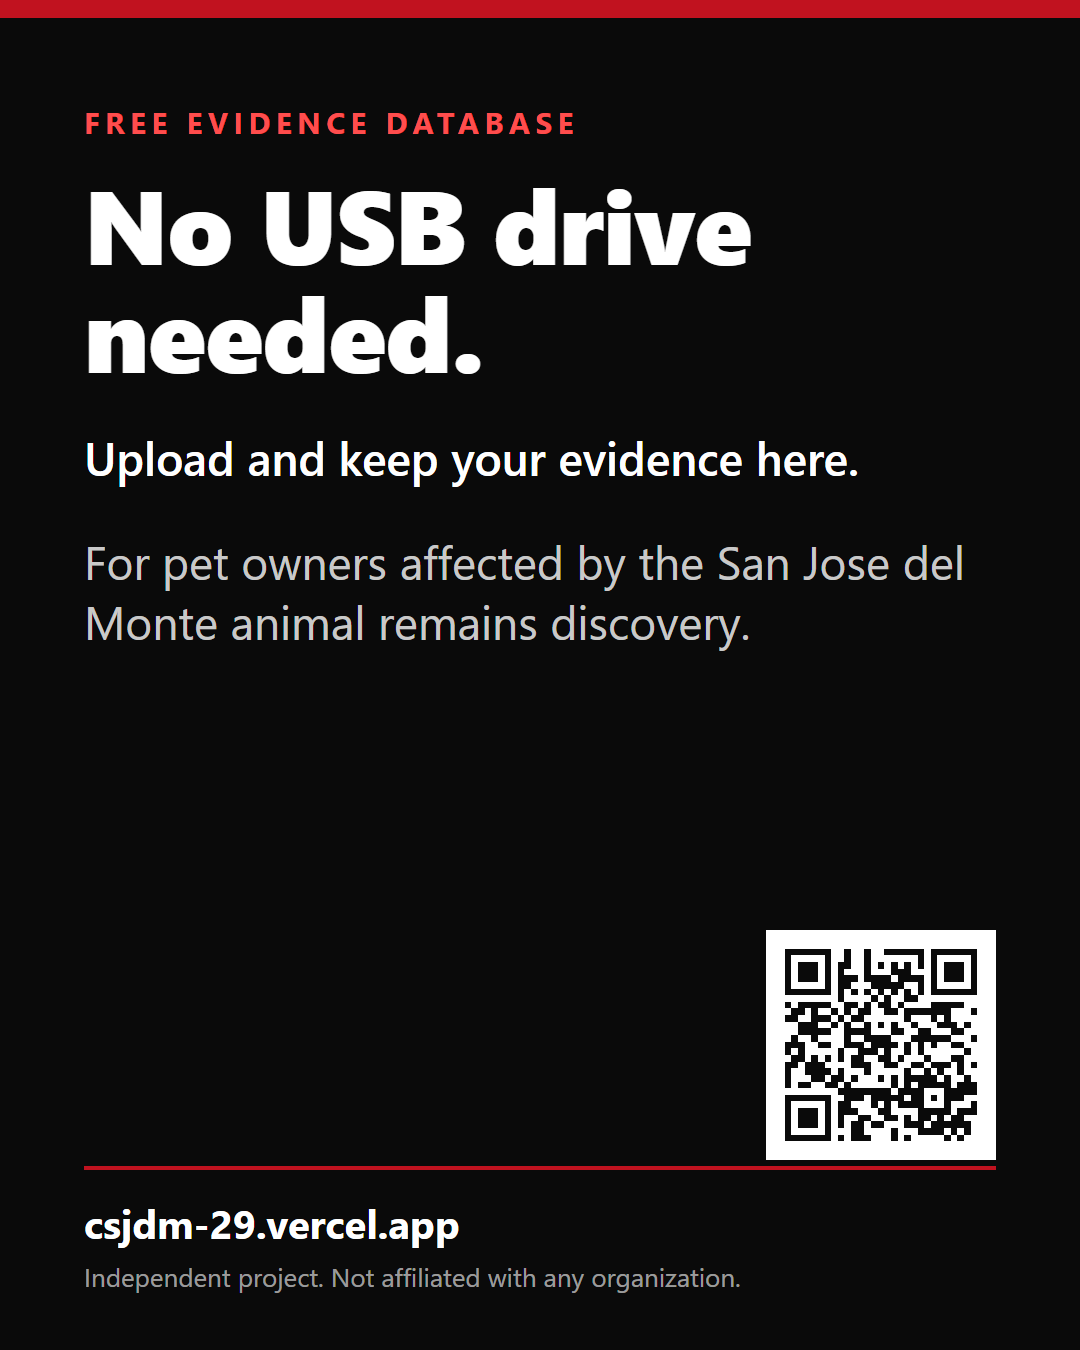
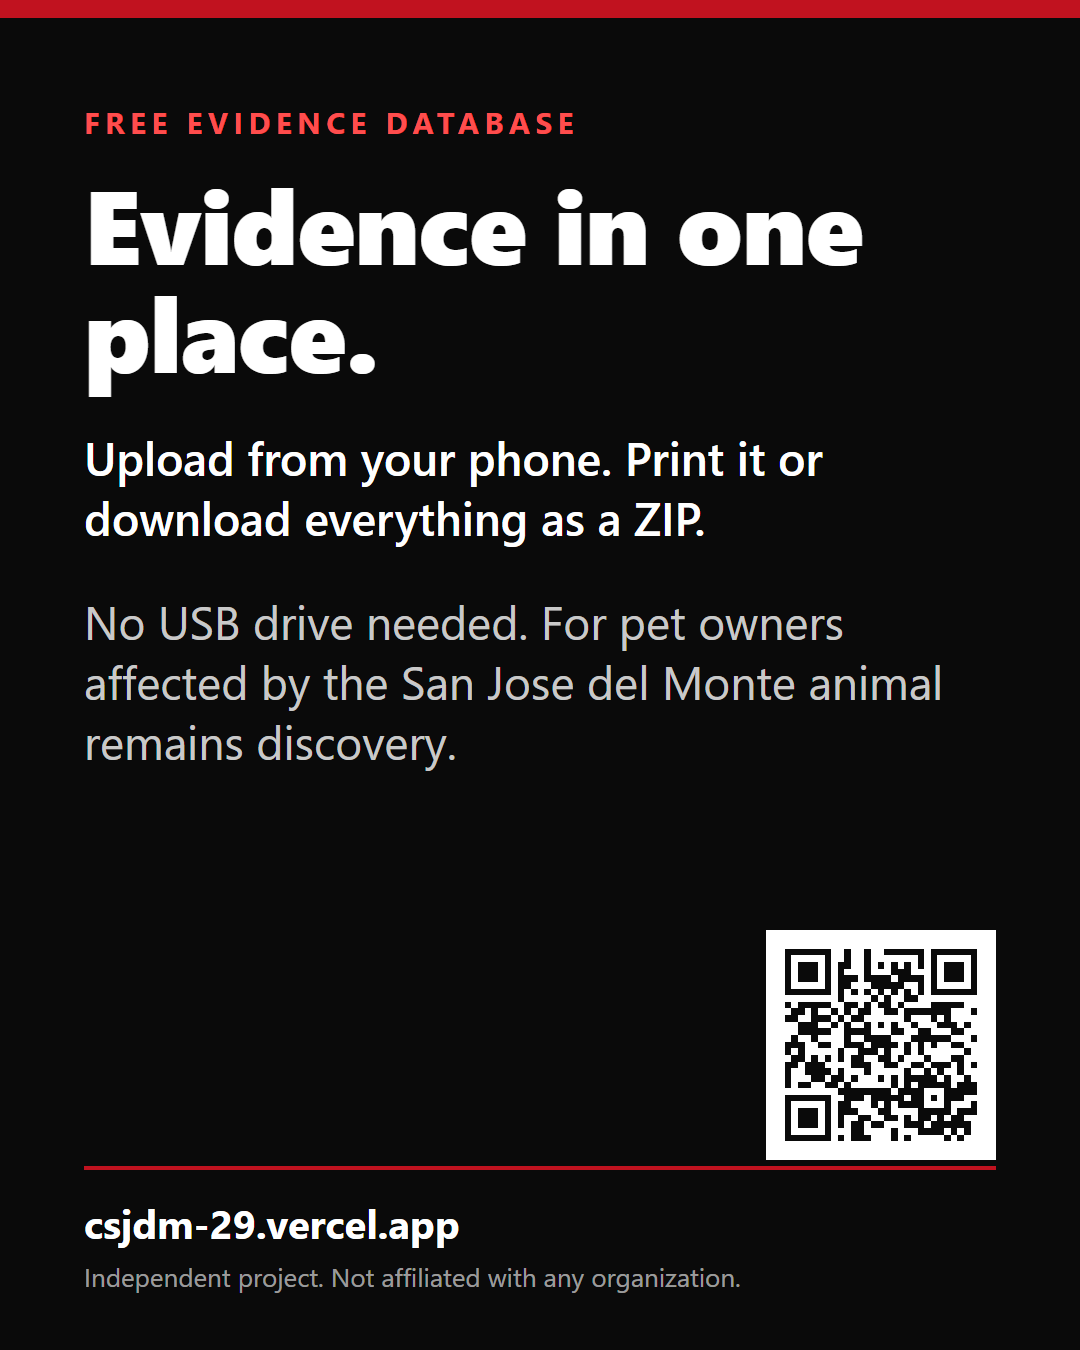
Lead with evidence database, state that the registry is empty, add registry-help slide and captions

Changed region(s): [[0.0611, 0.3111, 0.9167, 0.56], [0.0611, 0.1244, 0.7944, 0.3111]]

diff --git a/src/app/page.tsx b/src/app/page.tsx
@@ -13,15 +13,15 @@ export default async function Home() {
     <main>
       <section className="bg-ink-900 text-white">
         <div className="mx-auto max-w-3xl px-4 pb-12 pt-12 sm:pt-16">
-          <h1 className="text-4xl font-bold leading-tight sm:text-5xl">Evidence preservation and pet identification registry</h1>
+          <h1 className="text-4xl font-bold leading-tight sm:text-5xl">Evidence in one place. Print it or download it as a ZIP.</h1>
           <p className="mt-5 max-w-xl text-lg text-white/80">
-            For pet owners affected by the San Jose del Monte animal remains discovery. Upload evidence, search documented recovered animals, and review potential matches.
+            Online evidence database for pet owners affected by the San Jose del Monte animal remains discovery. Upload files from your phone instead of collecting them on a USB drive.
           </p>
 
           <div className="mt-8 flex max-w-md flex-col gap-3">
             <Link href="/report" className="btn-primary text-lg">Report or register a pet</Link>
-            <Link href="/registry" className="btn btn-secondary text-lg">Search recovered pets</Link>
-            <Link href="/information" className="btn border-2 border-white/40 text-white hover:bg-white/10">Submit information</Link>
+            <Link href="/information" className="btn btn-secondary text-lg">Submit information</Link>
+            <Link href="/registry" className="btn border-2 border-white/40 text-white hover:bg-white/10">Search recovered pets</Link>
           </div>
 
           <DisclaimerBox className="mt-8 max-w-xl" />
@@ -37,6 +37,11 @@ export default async function Home() {
           <Stat label="Evidence files preserved" value={n(stats?.evidence_files)} />
         </dl>
         <p className="mt-3 text-xs text-ink-500">Counts reflect records on this platform only. They are not findings about any person or business.</p>
+        {stats?.recovered_documented === 0 && (
+          <p className="mt-4 border-l-4 border-brand-600 bg-sand-100 p-3 text-sm text-ink-900">
+            The recovered-animals registry has no records yet. Records are added by authorized reviewers from documented sources. Searching and potential matches work only after records are added.
+          </p>
+        )}
       </section>
 
       <section className="mx-auto max-w-5xl px-4 pb-10">
@@ -64,7 +69,7 @@ export default async function Home() {
           {[
             ["Preserve", "Receipts, messages and photos are stored unmodified with a SHA-256 hash."],
             ["Organize", "Case details form a timeline and an evidence index."],
-            ["Correlate", "Documented recovered animals are compared with owner-submitted details."],
+            ["Correlate", "Once the registry has records, documented recovered animals are compared with owner-submitted details."],
             ["Verify", "A human reviewer checks every record and every potential match."],
             ["Export", "Print case packages or download original files as a ZIP."],
           ].map(([t, d], i) => (

diff --git a/social/07-registry-help.html b/social/07-registry-help.html
@@ -1,0 +1,32 @@
+<!doctype html><html><head><meta charset="utf-8"><style>
+*{box-sizing:border-box;margin:0;padding:0}
+body{width:1080px;height:1350px;background:#0a0a0a;color:#fff;font-family:"Segoe UI",Roboto,Arial,sans-serif;display:flex;flex-direction:column}
+.bar{height:18px;background:#c1121f;flex:none}
+.wrap{flex:1;padding:84px 84px 0;display:flex;flex-direction:column}
+.kicker{color:#ff4d4d;font-weight:700;letter-spacing:.18em;font-size:30px}
+h1{font-size:104px;line-height:1.04;font-weight:800;margin-top:26px;letter-spacing:-.01em}
+.lead{font-size:46px;line-height:1.3;margin-top:44px;font-weight:600}
+.dim{color:rgba(255,255,255,.78);font-weight:400}
+ul{margin-top:48px;list-style:none}
+ul li{font-size:42px;line-height:1.28;padding:22px 0 22px 46px;border-top:2px solid rgba(255,255,255,.16);position:relative}
+ul li:first-child{border-top:0}
+ul li::before{content:"";position:absolute;left:0;top:38px;width:18px;height:18px;background:#c1121f}
+ol{margin-top:48px;list-style:none;counter-reset:s}
+ol li{counter-increment:s;display:flex;flex-direction:column;padding:26px 0 26px 118px;border-top:2px solid rgba(255,255,255,.16);position:relative}
+ol li:first-child{border-top:0}
+ol li::before{content:counter(s);position:absolute;left:0;top:26px;width:76px;height:76px;border-radius:50%;background:#c1121f;font-size:42px;font-weight:800;display:flex;align-items:center;justify-content:center}
+ol b{font-size:46px}
+ol span{font-size:34px;line-height:1.3;color:rgba(255,255,255,.8);margin-top:6px}
+.orgs li{font-size:48px;font-weight:700}
+.small{font-size:32px;line-height:1.35;margin-top:36px;color:rgba(255,255,255,.8)}
+.qr{position:absolute;right:84px;bottom:190px;width:230px;background:#fff;padding:12px}
+.qr svg{display:block;width:100%;height:auto}
+.foot{flex:none;padding:0 84px 56px}
+.url{font-size:40px;font-weight:700;border-top:4px solid #c1121f;padding-top:26px}
+.note{font-size:26px;color:rgba(255,255,255,.6);margin-top:10px}
+</style></head><body>
+<div class="bar"></div>
+<div class="wrap"><div class="kicker">HELP NEEDED</div><h1>Registry records</h1><p class="lead">The recovered-animals registry has no records yet.</p><ul><li>Records are entered by authorized reviewers from documented sources</li><li>Entries can be text only: label name, weight, colors, markings, source</li><li>Photos are optional and stay hidden behind a reveal button</li><li>Organizations or volunteers with authorized access to source documentation: message this page to be set up as reviewers</li></ul></div>
+
+<div class="foot"><div class="url">csjdm-29.vercel.app</div><div class="note">Independent project. Not affiliated with any organization.</div></div>
+</body></html>

diff --git a/social/01-cover.html b/social/01-cover.html
@@ -26,7 +26,7 @@ ol span{font-size:34px;line-height:1.3;color:rgba(255,255,255,.8);margin-top:6px
 .note{font-size:26px;color:rgba(255,255,255,.6);margin-top:10px}
 </style></head><body>
 <div class="bar"></div>
-<div class="wrap"><div class="kicker">FREE EVIDENCE DATABASE</div><h1>No USB drive needed.</h1><p class="lead">Upload and keep your evidence here.</p><p class="lead dim">For pet owners affected by the San Jose del Monte animal remains discovery.</p></div>
+<div class="wrap"><div class="kicker">FREE EVIDENCE DATABASE</div><h1>Evidence in one place.</h1><p class="lead">Upload from your phone. Print it or download everything as a ZIP.</p><p class="lead dim">No USB drive needed. For pet owners affected by the San Jose del Monte animal remains discovery.</p></div>
 <div class="qr"><svg xmlns="http://www.w3.org/2000/svg" viewBox="0 0 31 31" shape-rendering="crispEdges"><path fill="#ffffff" d="M0 0h31v31H0z"/><path stroke="#0a0a0a" d="M1 1.5h7m2 0h1m2 0h1m2 0h6m1 0h7M1 2.5h1m5 0h1m2 0h1m2 0h1m7 0h1m1 0h1m5 0h1M1 3.5h1m1 0h3m1 0h1m1 0h2m2 0h1m1 0h1m1 0h1m1 0h1m1 0h1m1 0h1m1 0h3m1 0h1M1 4.5h1m1 0h3m1 0h1m1 0h1m3 0h1m3 0h3m3 0h1m1 0h3m1 0h1M1 5.5h1m1 0h3m1 0h1m1 0h3m1 0h4m1 0h4m1 0h1m1 0h3m1 0h1M1 6.5h1m5 0h1m1 0h2m3 0h5m2 0h1m1 0h1m5 0h1M1 7.5h7m1 0h1m1 0h1m1 0h1m1 0h1m1 0h1m1 0h1m1 0h1m1 0h7M9 8.5h1m4 0h1m1 0h1m2 0h2M1 9.5h1m1 0h5m2 0h2m1 0h1m1 0h2m1 0h1m4 0h5M2 10.5h2m1 0h1m2 0h1m1 0h1m1 0h2m2 0h2m1 0h7m3 0h1M1 11.5h2m2 0h3m1 0h1m1 0h2m6 0h1m3 0h1m1 0h1M3 12.5h3m2 0h1m1 0h1m2 0h1m1 0h1m1 0h1m2 0h1m3 0h3m1 0h1M3 13.5h5m2 0h4m3 0h2m2 0h2m3 0h2M2 14.5h1m2 0h1m4 0h1m2 0h4m3 0h6m3 0h1M1 15.5h3m2 0h2m2 0h3m1 0h4m1 0h1m1 0h1m1 0h1m2 0h2M1 16.5h1m1 0h1m5 0h1m2 0h3m1 0h1m2 0h1m1 0h1m6 0h1M2 17.5h2m1 0h1m1 0h1m1 0h1m1 0h2m2 0h2m1 0h1m3 0h1m3 0h2M1 18.5h2m1 0h3m4 0h3m2 0h2m2 0h2m1 0h3m1 0h1m1 0h1M1 19.5h1m2 0h4m1 0h1m3 0h1m5 0h1m2 0h1m1 0h1m2 0h1M1 20.5h1m3 0h2m1 0h2m1 0h1m3 0h1m1 0h1m1 0h5m1 0h1m2 0h1M1 21.5h1m1 0h2m2 0h2m1 0h1m6 0h1m1 0h1m1 0h5m1 0h3M9 22.5h8m1 0h4m3 0h5M1 23.5h7m2 0h3m1 0h5m1 0h2m1 0h1m1 0h3M1 24.5h1m5 0h1m1 0h2m3 0h1m1 0h1m1 0h4m3 0h1m3 0h1M1 25.5h1m1 0h3m1 0h1m1 0h3m3 0h2m4 0h5m1 0h3M1 26.5h1m1 0h3m1 0h1m1 0h1m2 0h2m2 0h2m1 0h1m1 0h2m1 0h1m1 0h2M1 27.5h1m1 0h3m1 0h1m1 0h1m1 0h2m1 0h2m3 0h3m1 0h6M1 28.5h1m5 0h1m3 0h2m4 0h1m3 0h4m1 0h1m1 0h1M1 29.5h7m1 0h1m1 0h3m3 0h1m1 0h1m5 0h1m1 0h1"/></svg>
 </div>
 <div class="foot"><div class="url">csjdm-29.vercel.app</div><div class="note">Independent project. Not affiliated with any organization.</div></div>

diff --git a/social/05-please-read.html b/social/05-please-read.html
@@ -26,7 +26,7 @@ ol span{font-size:34px;line-height:1.3;color:rgba(255,255,255,.8);margin-top:6px
 .note{font-size:26px;color:rgba(255,255,255,.6);margin-top:10px}
 </style></head><body>
 <div class="bar"></div>
-<div class="wrap"><div class="kicker">PLEASE READ</div><h1>Notices</h1><ul><li>The recovered-animals registry is still being compiled. Searches may show no results for now</li><li>A potential match is an investigative lead only, not a confirmed identification</li><li>Some records may contain images of deceased animals. They stay hidden until you choose to reveal them</li><li>This platform makes no determination of legal responsibility</li><li>Submit only genuine information. Do not alter or fabricate evidence</li></ul></div>
+<div class="wrap"><div class="kicker">PLEASE READ</div><h1>Notices</h1><ul><li>The recovered-animals registry has no records yet, so searches show no results</li><li>A potential match is an investigative lead only, not a confirmed identification</li><li>Some records may contain images of deceased animals. They stay hidden until you choose to reveal them</li><li>This platform makes no determination of legal responsibility</li><li>Submit only genuine information. Do not alter or fabricate evidence</li></ul></div>
 
 <div class="foot"><div class="url">csjdm-29.vercel.app</div><div class="note">Independent project. Not affiliated with any organization.</div></div>
 </body></html>

diff --git a/src/app/guide/page.tsx b/src/app/guide/page.tsx
@@ -108,7 +108,7 @@ export default function Guide() {
         <h2 className="text-xl font-bold">After submitting</h2>
         <ul className="mt-3 list-disc space-y-2 pl-5 text-sm text-ink-700">
           <li><strong>My cases</strong> lists your reports. Open one to add evidence at any time. Dates and uploads form a timeline automatically. You can add timeline events.</li>
-          <li><strong>Possible matches</strong> lists documented recovered animals with characteristics in common. {MATCH_NOTICE}</li>
+          <li><strong>Possible matches</strong> lists documented recovered animals with characteristics in common. It stays empty until reviewers add records to the registry. {MATCH_NOTICE}</li>
           <li><strong>Print case summary</strong> opens a print-ready package. Use the browser Print option to print or save as PDF.</li>
           <li><strong>Download all files (ZIP)</strong> downloads every original file with a manifest of SHA-256 values. Give this to investigators or authorities when asked.</li>
           <li>Reviewers see your report and evidence. Each reviewer preview or download of a file is recorded in an audit log.</li>

diff --git a/src/app/cases/[id]/matches/page.tsx b/src/app/cases/[id]/matches/page.tsx
@@ -30,7 +30,7 @@ export default async function Matches({ params }: { params: Promise<{ id: string
         <p className="card mt-6">Submit the report to see possible matches. <Link className="underline" href={`/cases/${id}/edit`}>Continue report</Link></p>
       ) : matches.length === 0 ? (
         <div className="card mt-6">
-          <p className="text-ink-700">No records share enough characteristics at present. Matches are recalculated when new records are approved.</p>
+          <p className="text-ink-700">No records share enough characteristics at present. The registry may have no records yet. Matches are recalculated when new records are approved.</p>
           <form action={refreshMatches} className="mt-3">
             <input type="hidden" name="caseId" value={id} />
             <button className="btn-secondary btn-sm">Check again</button>

diff --git a/src/app/layout.tsx b/src/app/layout.tsx
@@ -5,7 +5,7 @@ import { SiteFooter, SiteHeader } from "@/components/site";
 export const metadata: Metadata = {
   title: { default: "Justice for CSJDM29: evidence and pet identification registry", template: "%s · Justice for CSJDM29" },
   description:
-    "A community evidence and identification registry for pet owners affected by the San Jose del Monte animal remains discovery. Documents information and potential matches; does not determine legal responsibility.",
+    "Online evidence database for pet owners affected by the San Jose del Monte animal remains discovery. Upload evidence, then print it or download it as a ZIP. Documents information and potential matches. Does not determine legal responsibility.",
 };
 
 export const viewport: Viewport = { width: "device-width", initialScale: 1 };

diff --git a/src/app/registry/page.tsx b/src/app/registry/page.tsx
@@ -112,7 +112,7 @@ export default async function Registry({ searchParams }: { searchParams: Promise
             </p>
             {hits.length === 0 ? (
               <p className="card mt-3 text-ink-700">
-                No records have these characteristics. Records are still being added. Try fewer filters or similar spellings.
+                {pets.length === 0 ? "The registry has no records yet. Records are added by authorized reviewers from documented sources." : "No records have these characteristics. Try fewer filters or similar spellings."}
               </p>
             ) : (
               <ul className="mt-3 grid gap-4 sm:grid-cols-2">

diff --git a/docs/LAUNCH-POST.md b/docs/LAUNCH-POST.md
@@ -1,19 +1,19 @@
 # Launch post kit
 
-Images: `social/01-cover.png` to `social/06-handover.png` (1080 x 1350). Regenerate with `node scripts/make-social.mjs`. None contain personal details.
+Images: `social/01-cover.png` to `social/07-registry-help.png` (1080 x 1350). Regenerate with `node scripts/make-social.mjs`. None contain personal details.
 
-Upload order on Facebook: 01, 02, 03, 04, 05, 06. The first image is the cover in the feed.
+Upload order on Facebook: 01, 02, 03, 04, 05, 06, 07. The first image is the cover in the feed.
 
 ## Caption (English)
 
-Free evidence database. No USB drive needed.
+Evidence scattered across phones, chats and USB drives? Keep it in one place.
 
-For pet owners affected by the San Jose del Monte animal remains discovery: upload and keep your evidence here.
+Free online evidence database for pet owners affected by the San Jose del Monte animal remains discovery. Upload from your phone. Print it or download everything as a ZIP when authorities ask. No USB drive needed.
 
 What you can do
-- Upload receipts, messages, photos, certificates and veterinary records from your phone
+- Upload receipts, messages, photos, certificates and veterinary records
 - Keep everything in one private place with a timeline and an evidence index
-- Print your case package or download all your files as a ZIP when authorities ask
+- Print your case package or download all your files as a ZIP
 - Report an earlier incident
 - Submit information anonymously, no account needed
 
@@ -24,29 +24,29 @@ How your files are handled
 - Limits: 50 MB per file, 300 MB per account
 
 Please read
-- The recovered-animals registry is still being compiled, so searches may show no results for now
+- The recovered-animals registry has no records yet, so searches show no results
 - A potential match is an investigative lead only, not a confirmed identification
-- Some records may contain images of deceased animals. They stay hidden until you choose to reveal them
 - This platform makes no determination of legal responsibility
 - Submit only genuine information. Do not alter or fabricate evidence
 
-Link: https://csjdm-29.vercel.app
+Link: https://csjdm-29.vercel.app (guide: https://csjdm-29.vercel.app/guide)
 
-Request to organizations
-This platform was built independently and is not run by any organization. I am requesting Luna and Furry Siblings, Animal Kingdom Foundation and the Philippine Animal Welfare Society (PAWS) to take over its administration. Representatives: please message this page or comment on this post. Access will be given only after confirming through each organization's official channel.
+Help needed
+1. Administration: this platform was built independently and is not run by any organization. I am requesting Luna and Furry Siblings, Animal Kingdom Foundation and the Philippine Animal Welfare Society (PAWS) to take over its administration. Representatives: please message this page or comment on this post. Access will be given only after confirming through each organization's official channel.
+2. Registry records: organizations or volunteers with authorized access to source documentation of the recovered animals can be set up as reviewers to enter records. Entries can be text only (label name, weight, colors, markings, source). Photos are optional and stay hidden behind a reveal button. Please message this page.
 
 Independent project. Not affiliated with or endorsed by any organization.
 
 ## Caption (Taglish)
 
-Libreng evidence database. Hindi na kailangan ng USB drive.
+Nakakalat ba ang evidence sa phone, chat at USB drive? Ipunin sa isang lugar.
 
-Para sa mga pet owner na apektado ng natuklasang animal remains sa San Jose del Monte: dito i-upload at itago ang inyong evidence.
+Libreng online evidence database para sa mga pet owner na apektado ng natuklasang animal remains sa San Jose del Monte. Mag-upload gamit ang phone. I-print o i-download lahat bilang ZIP kapag humingi ang mga awtoridad. Hindi na kailangan ng USB drive.
 
 Pwede ninyong gawin
-- Mag-upload ng resibo, messages, litrato, certificate at veterinary records gamit ang phone
+- Mag-upload ng resibo, messages, litrato, certificate at veterinary records
 - Ayusin ang lahat sa isang pribadong lugar, may timeline at evidence index
-- Mag-print ng case package o mag-download ng lahat ng files (ZIP) kapag humingi ang mga awtoridad
+- Mag-print ng case package o mag-download ng lahat ng files bilang ZIP
 - Mag-report ng naunang insidente
 - Magsumite ng impormasyon nang anonymous, hindi kailangan ng account
 
@@ -57,18 +57,23 @@ Paano hinahawakan ang files
 - Limit: 50 MB bawat file, 300 MB bawat account
 
 Paalala
-- Binubuo pa ang registry ng recovered animals, kaya maaaring walang lumabas sa search sa ngayon
+- Wala pang laman ang registry ng recovered animals, kaya walang lalabas sa search
 - Ang "potential match" ay lead lang para sa imbestigasyon at hindi kumpirmadong pagkakakilanlan
-- May mga record na maaaring may larawan ng namatay na hayop. Nakatago ito hanggang piliin ninyong ipakita
 - Walang hatol ng legal na pananagutan ang platform na ito
 - Magsumite lamang ng totoong impormasyon. Huwag baguhin o gawa-gawain ang evidence
 
-Link: https://csjdm-29.vercel.app
+Link: https://csjdm-29.vercel.app (guide: https://csjdm-29.vercel.app/guide)
 
-Hiling sa mga organisasyon
-Independent na ginawa ang platform na ito at hindi pinapatakbo ng anumang organisasyon. Hinihiling ko sa Luna and Furry Siblings, Animal Kingdom Foundation at Philippine Animal Welfare Society (PAWS) na tumanggap ng administrasyon nito. Mga kinatawan: mag-message sa page na ito o mag-comment sa post. Ibibigay ang access pagkatapos lamang makumpirma sa opisyal na channel ng bawat organisasyon.
+Kailangan ng tulong
+1. Administrasyon: independent na ginawa ang platform na ito at hindi pinapatakbo ng anumang organisasyon. Hinihiling ko sa Luna and Furry Siblings, Animal Kingdom Foundation at Philippine Animal Welfare Society (PAWS) na tumanggap ng administrasyon nito. Mga kinatawan: mag-message sa page na ito o mag-comment sa post. Ibibigay ang access pagkatapos lamang makumpirma sa opisyal na channel ng bawat organisasyon.
+2. Mga record ng registry: ang mga organisasyon o volunteer na may awtorisadong access sa source documentation ng recovered animals ay maaaring gawing reviewer para mag-enter ng records. Pwedeng text lang (label name, timbang, kulay, markings, source). Opsyonal ang litrato at nakatago ito sa likod ng reveal button. Mag-message sa page na ito.
 
 Independent na proyekto. Hindi konektado o inendorso ng anumang organisasyon.
+
+## Short caption (if a short one is needed)
+
+Evidence scattered across phones and USB drives? Upload it here, free. Keep it in one private place, then print it or download everything as a ZIP.
+https://csjdm-29.vercel.app
 
 ## Pinned comment
 
@@ -77,12 +82,13 @@ Evidence only. Do not post private conversations or contact details in the comme
 
 ## Alt text for the images
 
-1. Black and red graphic: "Free evidence database. No USB drive needed." with a QR code to the site.
+1. Black and red graphic: "Evidence in one place. Upload from your phone. Print it or download everything as a ZIP. No USB drive needed." with a QR code to the site.
 2. Four steps: create an account, start a report, upload evidence, submit.
 3. List of what owners can do from a phone.
 4. How files are protected: private, originals unchanged, SHA-256 hash, contact details never published, upload limits.
-5. Notices: registry still being compiled, a potential match is not an identification, graphic images hidden, no legal determination, submit genuine information only.
+5. Notices: the registry has no records yet, a potential match is not an identification, graphic images hidden, no legal determination, submit genuine information only.
 6. Request for Luna and Furry Siblings, Animal Kingdom Foundation and PAWS to take over administration.
+7. Request for authorized people with source documentation to be set up as reviewers and enter registry records.
 
 ## Message to the organizations (send privately, not in the comments)
 
@@ -90,9 +96,11 @@ Subject: Request to take over administration of an evidence platform for the San
 
 Hello,
 
-I built an independent web platform where affected pet owners can upload and preserve evidence (receipts, messages, photos, certificates), report incidents, and where documented recovered animals can be compared with owner-submitted details. It is live at https://csjdm-29.vercel.app. It is not affiliated with any organization.
+I built an independent web platform for affected pet owners. It replaces collecting evidence on USB drives: owners upload receipts, messages, photos and certificates from their phones, and can print their case or download everything as a ZIP with a hash manifest. It is live at https://csjdm-29.vercel.app and is not affiliated with any organization.
 
-I am requesting that your organization take over its administration. Evidence handling is built in: files are stored unmodified with SHA-256 hashes, every reviewer access is logged, bulk export produces a ZIP with a hash manifest, and potential matches are leads only.
+It also has a registry for documented recovered animals, with potential matches against owner reports. The registry has no records yet.
+
+I am requesting that your organization take over its administration. Evidence handling is built in: files are stored unmodified with SHA-256 hashes, every reviewer access is logged, and potential matches are leads only.
 
 What taking over involves
 - Two named administrators from your organization
@@ -100,9 +108,12 @@ What taking over involves
 - Responsibility for the personal data collected, including a data protection officer and a privacy notice
 - Roughly one hour of setup with me. The steps are in the handover guide
 
+Registry records
+- If your organization holds authorized source documentation of the recovered animals, your reviewers can enter records. Entries can be text only. Photos are optional and hidden behind a reveal button.
+
 What I will do
 - Transfer the three accounts, rotate every secret key, and remove my access
-- Walk your administrators through the reviewer guide and user management page
+- Walk your administrators through the reviewer guide and the user management page
 
 What I need from you
 - The names of two administrators and an official email address for each
